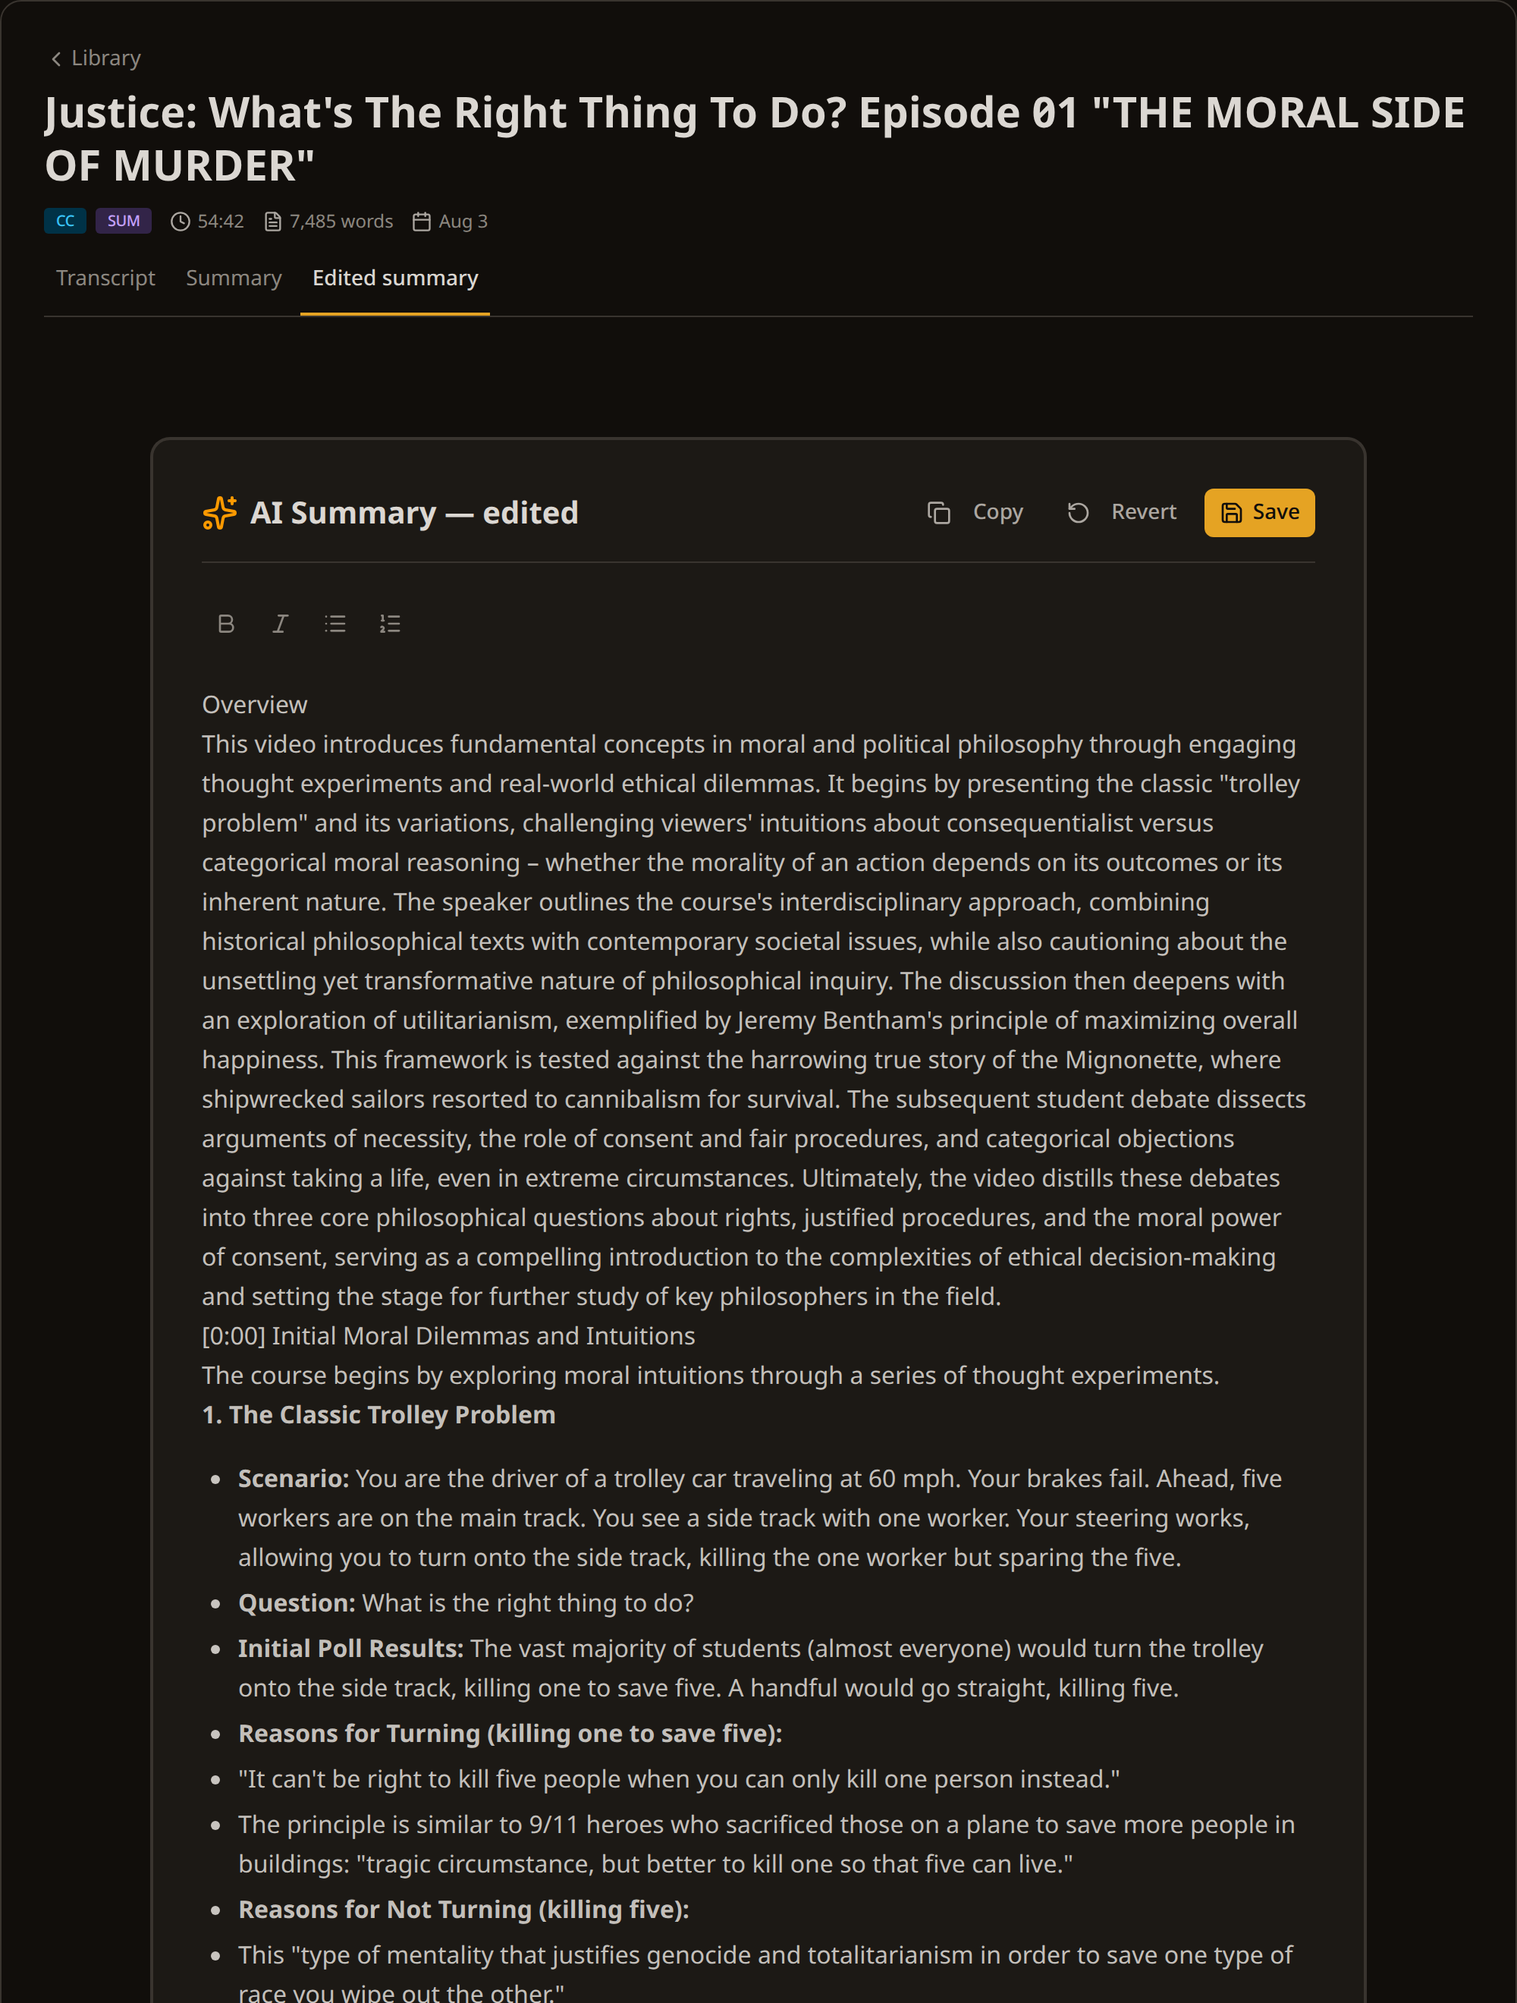
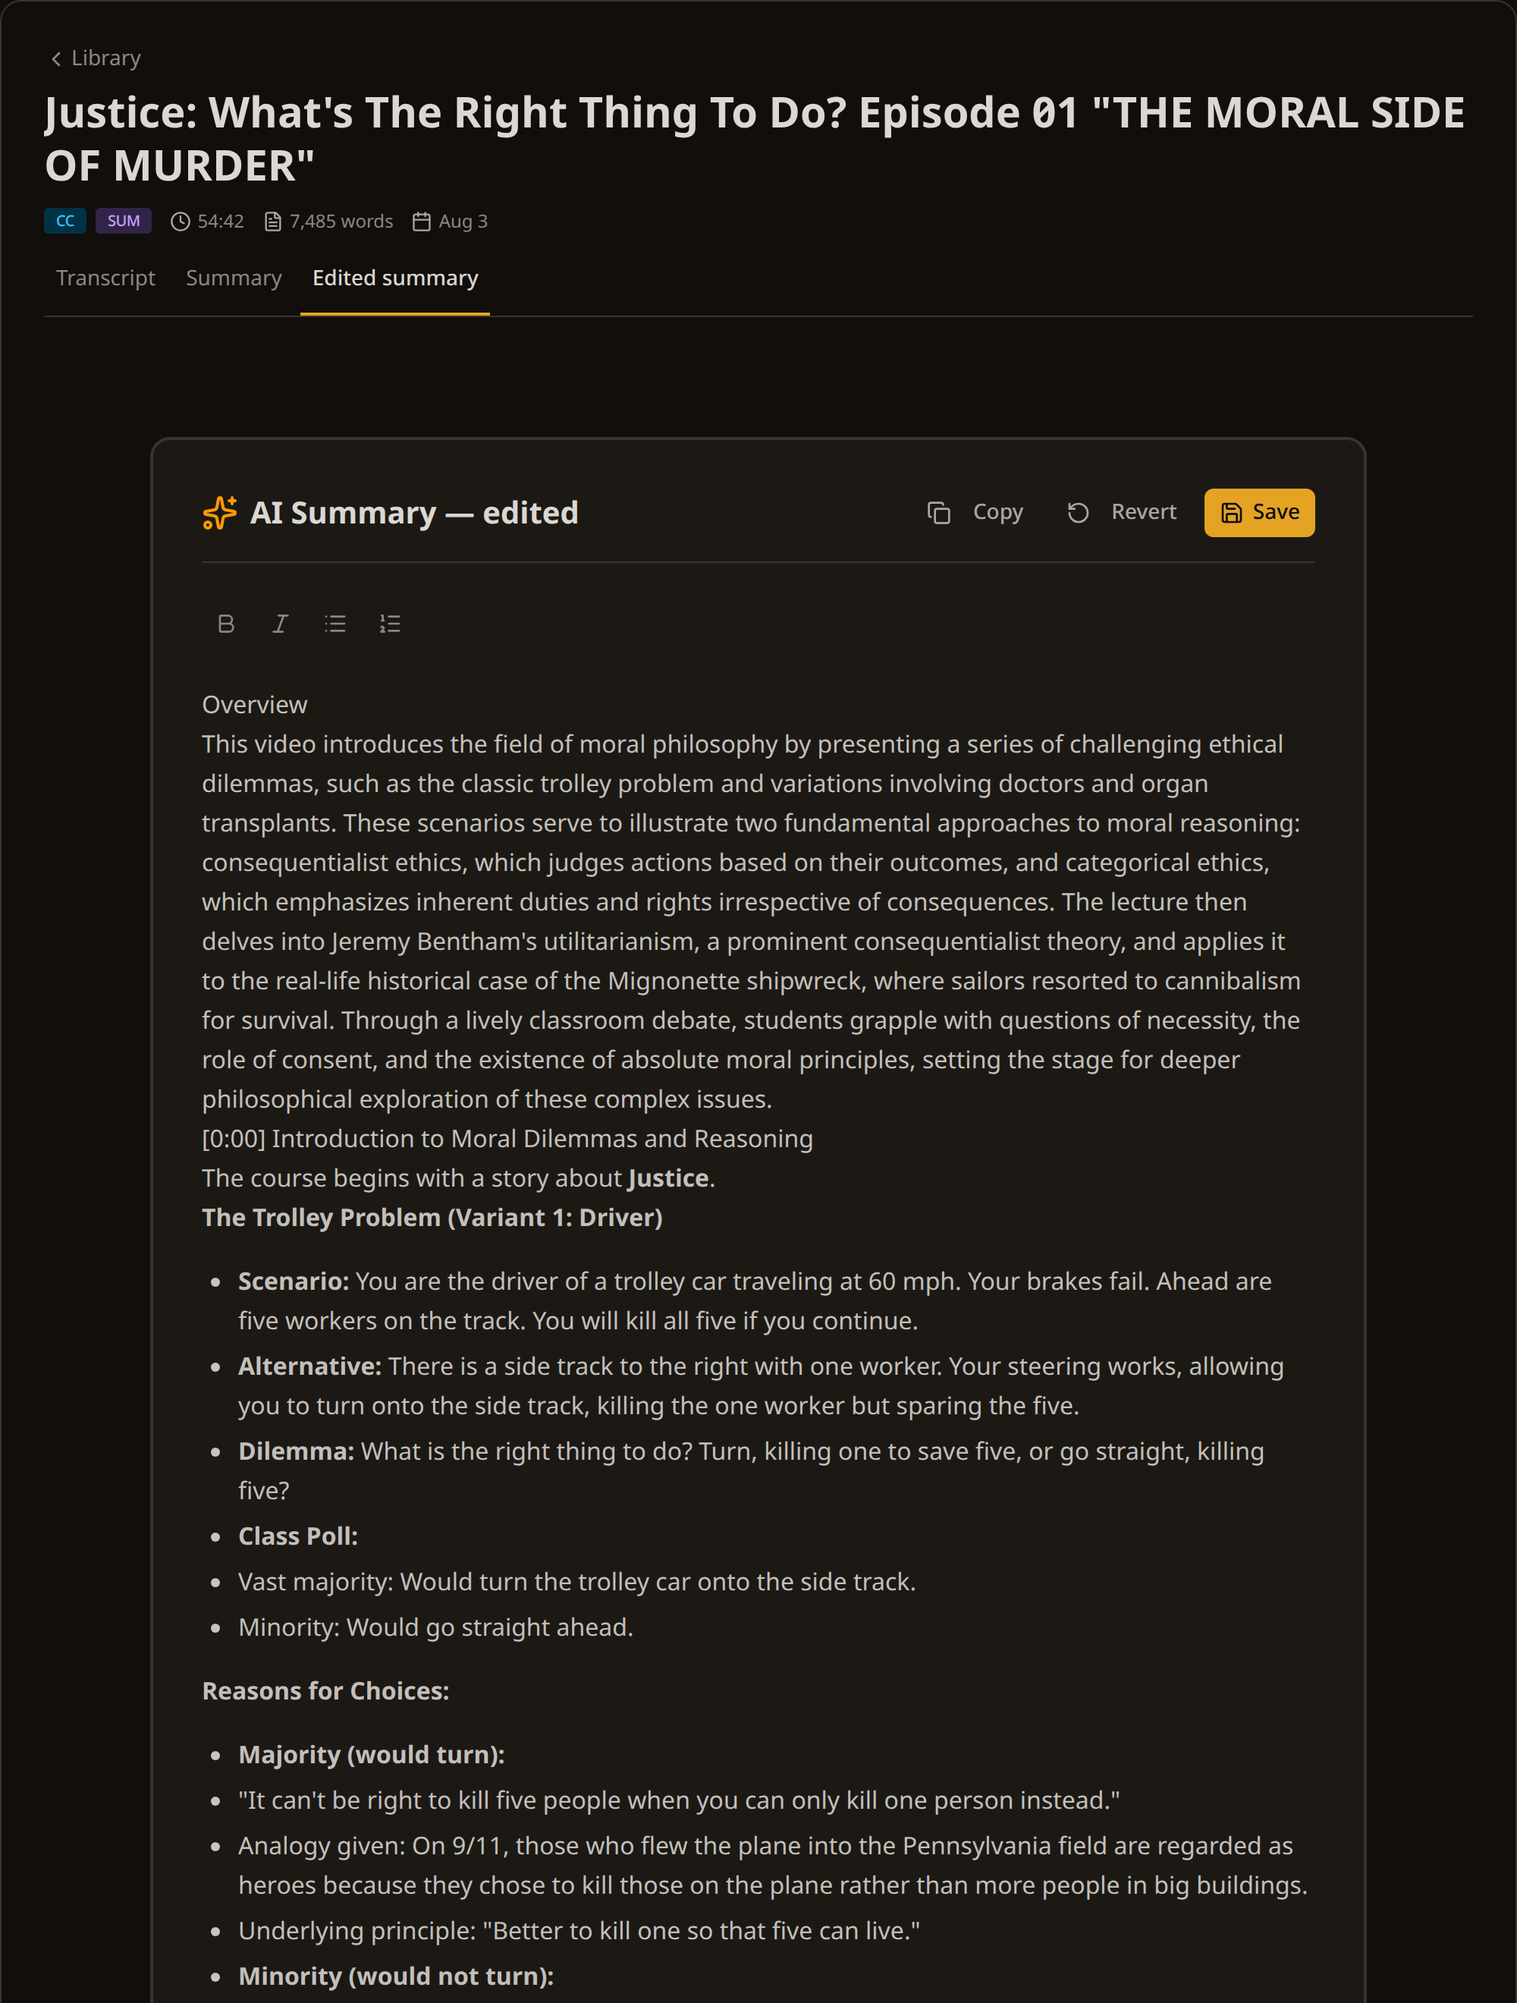
tune(summaries): overview length cap + re-shoot & freeze the Justice fixture
Close off the summary path in three steps.

1. Step-1 overview gets the same hard, source-length cap as the chapters: the overview must never be
   longer than the transcript itself (binding on short videos, a no-op on long ones). Re-measured with
   BOTH caps: Deep Work (72s, shortest) overview 96w->85w, sections 173w, total 258w = 121% — still
   >100%. The overview cap barely binds here (96w was already under the 213w transcript); the residual
   is structural — sections (~81%, each capped at its fragment) plus any overview sum over the
   transcript, so a per-part source cap cannot force the SUM under 100%. Justice 52% (ov 125 + sec 3507
   = 3632w vs 6987w) — cap non-binding, within its natural spread, unaffected.

2. Re-shot the three Justice summary captures (summary-overview / -chapter / -edit, light+dark, 6 PNGs)
   with the capture machine against live app.indxr.ai — they now show the frozen 5-chapter summary.

3. Froze the fixture: a LESSONS rule (a fixture that feeds a screenshot is not a test subject — never
   regenerate it for a proof; use a throwaway transcript) + a FROZEN marker in quickstart-capture.spec.ts
   with the definitive numbers.

ai-summary.md open item updated with the new numbers: the shortest video stays at 121% (>100%), so the
top-end spread persists -> that part STAYS OPEN. Summary tests green (breaker 7/7, credits 23/23);
3 captures green.

Changed region(s): [[0.124, 0.3417, 0.868, 1.0]]

diff --git a/tests/playwright/capture/quickstart-capture.spec.ts b/tests/playwright/capture/quickstart-capture.spec.ts
@@ -352,6 +352,10 @@ test('video-subtitles-srt', async ({ page }) => {
 // The figures for /articles (summaries). Read a REAL AI summary (ADR-090: overview + chapters, each
 // with a clickable timestamp) generated on the seeded Justice transcript (videoId → amber timestamps).
 // See screenshot-machine.md → "AI-summary seed". Do NOT delete that summary/transcript.
+// FROZEN FIXTURE (2026-08-25): this summary feeds the three captures below — it must NEVER be
+// regenerated for a proof or a measurement (doing so silently ages these screenshots; it has bitten
+// us three times). For length/quality experiments use a THROWAWAY transcript, not this one. Frozen
+// state: 5 chapters, 3632-word summary vs 6987-word transcript (52%), 54:42, 55 credits. See LESSONS.
 const SUMMARY_TRANSCRIPT_ID = '0798fa30-8056-4343-9e02-c50d93c00e4a' // Justice lecture (kBdfcR-8hEY)
 
 // Frame a TALL subject and shoot only its top `heightCss` px, in both themes. Unlike frameShot's

diff --git a/backend/summary_pipeline.py b/backend/summary_pipeline.py
@@ -286,7 +286,11 @@ def structure_system_prompt(min_sections: int, max_sections: int, total_seconds:
         "The transcript below is a spoken video; each line is prefixed with its start time in whole "
         f"seconds like [123]. The video runs from 0 to about {total_seconds} seconds.\n\n"
         "Produce:\n"
-        "1. `overview`: a few short paragraphs summarising the whole video.\n"
+        "1. `overview`: a few short paragraphs summarising the whole video. HARD LIMIT: the overview "
+        "must NEVER be longer than the transcript itself — never more words than the transcript "
+        "contains. For a short video this is the binding cap and the overview must shrink to fit it; "
+        "for a long video it changes nothing, because a genuine high-level overview already sits far "
+        "under it. Keep it a high-level summary, not a retelling — the section notes carry the detail.\n"
         "2. `sections`: an ordered list that splits the video where the topic changes. For each "
         "section give a `heading`, a one-sentence `description` of what that section actually covers, "
         "and a `start_time` and `end_time` in whole seconds (taken from the [..] timestamps). The "

diff --git a/docs/LOG.md b/docs/LOG.md
@@ -1070,3 +1070,5 @@ Co-Authored-By: Claude Sonnet 5 <noreply@anthropic.com>
 [2026-08-25 13:00] taak: DEEL A (onderzoek, geen code) + DEEL B (idempotentiesleutels, gebouwd). DEEL A: lengtespreiding samenvattingen = GEDRAG niet toeval — Justice 8 generaties out_tok 7310-15890 (2,2x); ratio samenvatting/transcript over 7 prod-summaries 39%-172% (korte video's > transcript, lange ~40%). Oorzaak = stap-2-prompt (volledige dekking, ~1/3 als niet-bindende richting, geen cap), NIET segmentatie/denkbudget. COR-spreiding €0,026-0,049, ruim binnen onderbreker (kost/min €0,0009 vs cap €0,02). Vastgelegd als OPEN in ai-summary.md met de tabel. DEEL B: idempotentiesleutels op alle credit-reserverende routes (ADR-019, eindelijk gebouwd). Migratie 20260825020000 (tabel idempotency_keys + cleanup-RPC + ARQ-cron 03:00). backend/idempotency.py (request_hash/content_hash/lookup/claim/release). Gewired in start_summary, transcribe/whisper (single+upload), playlist/extract (+retry): sleutel vooraf job_id → atomische PK-claim; gelijktijdig tweede verzoek → zelfde job, geen 2e reservering; sleutel = enige dedup wanneer aanwezig (legacy resource-dedup overgeslagen) zodat retry-na-vastgelopen niet blokkeert; request_hash per soort (summary: transcript+bron+bestaande generated_at; upload: content-hash; single: video_url; playlist: url+video_ids); mismatch→422; release bij post-claim-fout. Frontend: packages/shared/src/lib/idempotency.ts + gewired in SummaryTab/transcribe-page/VideoTab/AudioTab/PlaylistTab (choice 1: munt-bij-intentie, wis-bij-jobid/fout; retry=nieuwe actie). Migratie 20260825030000 verwijdert de summary-index uniq_active_ai_summary_job PAS na go-live (choice 5, nooit een gat: eerst key-path gepusht+Railway-deploy bevestigd, dan drop). BEWEZEN per jobsoort (2 backend-instances, echte gelijktijdigheid): 14/14 — zelfde sleutel→1 job/1 reservering/zelfde job_id; verschillende sleutels→2 jobs; retry-na-vastgelopen(nieuwe sleutel)→niet geblokkeerd; zelfde sleutel+andere inhoud→422; upload content-hash-guard. known-issues: race GEFIXT (commit 962856d). Verificatie: beide builds groen (2/2, tsc schoon), py_compile OK, test_summary_credits 23/23, test_summary_breaker 7/7, 14/14 proofs. | gewijzigd: supabase/migrations/{20260825020000_idempotency_keys,20260825030000_drop_summary_dedup_index}.sql (nieuw), backend/{idempotency.py (nieuw),main.py,worker.py}, packages/shared/src/lib/idempotency.ts (nieuw), apps/app/src/components/library/SummaryTab.tsx, apps/app/src/app/dashboard/transcribe/page.tsx, packages/shared/src/components/free-tool/{VideoTab,AudioTab,PlaylistTab}.tsx, docs/wiki/decisions/019-arq-job-queue.md, docs/wiki/operations/known-issues.md, docs/wiki/architecture/ai-summary.md, docs/LOG.md
 
 [2026-08-25 14:00] taak: één ingreep in de stap-2-samenvattingsprompt (SECTION_SYSTEM_PROMPT). HARDE bovengrens toegevoegd: de uitwerking van een hoofdstuk mag nooit langer zijn dan het transcriptfragment zelf (bindend bij korte fragmenten, niet-bindend bij lange). De ≈⅓-richting blijft binnen die grens (geformuleerd als richting, geen floor), en de vrijheid om lengte de informatiedichtheid te laten volgen blijft intact. Gemeten (één regeneratie per kant, run_summary direct + teruggeschreven): Deep Work (72s, kortste) 172%→129% — de stap-2-secties zakten naar 178w < transcript 213w (elk hoofdstuk onder zijn fragment) → de grens BINDT; de resterende >100% is de overkoepelende overview (step 1, 96w) die buiten deze ene stap-2-ingreep valt. Justice (lang) 47%→36%: 36% ≪ 100%-grens → niet-bindend, binnen Justice' natuurlijke spreiding (26–47%) → onaangetast. Open punt in ai-summary.md bijgewerkt met de uitkomst: hoofdstuk-uitwerking nu begrensd, maar totale korte-video-ratio blijft >100% door de niet-begrensde overview → bovenkant-spreiding VERKLEIND niet weggenomen → BLIJFT OPEN (overview = resterende hefboom). NB: Deep Work + Justice zijn hierdoor opnieuw gegenereerd in de DB (Justice-fixture nu 4 hoofdstukken; sanctioneerd door de taak). Verificatie: py_compile OK, test_summary_breaker 7/7, test_summary_credits 23/23. | gewijzigd: backend/summary_pipeline.py, docs/wiki/architecture/ai-summary.md, docs/LOG.md
+
+[2026-08-25 14:15] taak: samenvattingspad afsluiten (3 stappen). (1) Stap-1-overview kreeg dezelfde harde grens als de hoofdstukken, tied aan de transcript-lengte (overview nooit langer dan het transcript; bindt bij kort, no-op bij lang). Opnieuw gemeten met BEIDE grenzen: Deep Work (kortste, 72s) overview 96w->85w, secties 173w, totaal 258w = 121% — NOG STEEDS >100%; de overview-grens is bijna niet-bindend want 96w zat al onder 213w, en de rest is structureel (secties ~81% + overview sommeren boven transcript). Justice (fixture) 52% (ov 125 + sec 3507 = 3632w vs 6987w), niet-bindend/onaangetast. (2) Justice-schermafbeeldingen opnieuw geschoten met de opnamemachine tegen live app.indxr.ai — summary-overview/-chapter/-edit, licht+dark (6 PNGs), tonen nu de bevroren 5-hoofdstuk-samenvatting. (3) Fixture BEVROREN: LESSONS-regel toegevoegd (een fixture die een schermafbeelding voedt is geen proefkonijn — nooit opnieuw genereren voor een proef; gebruik een wegwerp-transcript) + FROZEN-marker in quickstart-capture.spec.ts met de definitieve cijfers. Open punt in ai-summary.md bijgewerkt: kortste video 121% (>100%) -> deel BLIJFT OPEN met de nieuwe cijfers. Verificatie: py_compile OK, test_summary_breaker 7/7, test_summary_credits 23/23, 3 captures groen (6 PNGs, beide thema's). | gewijzigd: backend/summary_pipeline.py, docs/wiki/architecture/ai-summary.md, docs/LESSONS.md, tests/playwright/capture/quickstart-capture.spec.ts, apps/marketing/public/docs/screenshots/summary-{overview,chapter,edit}-{light,dark}.png, docs/LOG.md

diff --git a/docs/LESSONS.md b/docs/LESSONS.md
@@ -202,3 +202,5 @@ Format: `[YYYY-MM-DD] <gebied>: <wat fout ging> → <regel om herhaling te voork
 [2026-08-24] llm-structured-output: geldige/parseerbare JSON van een taalmodel betekent NIET dat de inhoud compleet is. Gemini 2.5 Flash/Pro leveren INTERMITTEREND geldige, gesloten JSON waarvan een lang tekstveld midden in de zin stopt — mét finish_reason=stop en output-tokens ver onder de limiet (zelfs bij maxOutputTokens 65536; bevestigd op Google's AI Developers Forum). Bij ons slaagde json.loads en vuurde de JSON-terugval NIET, dus het glipte langs élk vangnet en leverde afgekapte betaalde samenvattingen (2 van 7, meest middenhoofdstukken). → Bij gestructureerde uitvoer met LANGE vrije-tekstvelden hoort een INHOUDELIJKE controle NÁÁST de parse (eindigt op een zin-afsluitend teken + niet onredelijk kort t.o.v. de invoer), en een gefaalde check moet als een MISLUKTE call behandeld worden (retry → fallback-model), niet als geslaagd. Overweeg het schema wég te laten waar het veld gewoon markdown/vrije tekst is — platte tekst maakt afkapping direct zichtbaar i.p.v. gecamoufleerd als geldige JSON. Leg de finish_reason + het tokenbudget + de reasoning/zichtbaar-splitsing vast, anders is de volgende diagnose giswerk. Denkbudget expliciet zetten (extra_body.google.thinking_config.thinking_budget; reasoning_effort/thinking_level geeft 400 op gemini-2.5-flash). Zie [[090-ai-summary-two-step-structured]] Addendum 3.
 [2026-08-24] verwijderde-route-audit: een feitenrapport (subagent) beweerde dat `check-playlist-availability` "nog in Next én Python bestaat, zonder aanroeper" — maar `git ls-files` + alle `@app`-decorators in `backend/main.py` toonden 0 treffers: de route was al volledig verwijderd (ADR-076 klopte). Het rapport had de bestaan-claim waarschijnlijk afgeleid uit de **stale endpoint-tabel in CLAUDE.md**, niet geverifieerd tegen de broncode. → Vóór je code "verwijdert" op basis van een rapport/tabel: bevestig eerst dat het bestand/de endpoint écht bestaat via de bron-van-waarheid (`git ls-files | grep`, route-decorators, grep in `*/src`), niet via een secundaire beschrijving. En: houd de CLAUDE.md endpoint-tabel gesynchroniseerd bij een verwijdering — een stale regel daar produceert later een spookmelding. Verzin GEEN "verwijdering was onvolledig"-noot in een ADR als de verwijdering aantoonbaar compleet was; rapporteer de tegenstrijdigheid. Zie [[076-no-playlist-precheck]].
 [2026-08-24] doc-vs-code modelnamen: CLAUDE.md noemde als summary-fallback alleen 'Claude Haiku 4.5' (ADR-068, single-pass) terwijl de code (summary_pipeline.py) sinds ADR-090 TWEE stappen heeft met per-stap-fallback: stap 1 (structuur) -> claude-sonnet-4-6, stap 2 (uitwerking) -> claude-haiku-4-5-20251001, beide met gemini-2.5-flash primair. Een prod-log met een sonnet-call leek daardoor 'fout' maar was de stap-1-fallback. -> Bij vragen over welk model/fallback draait: lees STRUCTURE_MODEL/STRUCTURE_FALLBACK/SECTION_MODEL/SECTION_FALLBACK in backend/summary_pipeline.py, niet CLAUDE.md of de ADR-tabel; die lopen achter op de pijplijn-addenda. Zie [[090-ai-summary-two-step-structured]].
+
+[2026-08-25] fixtures: de Justice-samenvatting (transcript 0798fa30) is drie keer opnieuw gegenereerd voor lengte-proeven, en elke keer verouderde dat stil de docs-schermafbeeldingen (summary-overview/-chapter/-edit) die deze fixture live lezen → een fixture die een schermafbeelding voedt is GEEN proefkonijn. Regel: genereer een transcript dat een capture voedt nooit opnieuw voor een proef of meting; gebruik daarvoor een wegwerp-transcript. Bevroren fixtures staan gemarkeerd in tests/playwright/capture/quickstart-capture.spec.ts (SUMMARY_TRANSCRIPT_ID).

diff --git a/docs/wiki/architecture/ai-summary.md b/docs/wiki/architecture/ai-summary.md
@@ -188,12 +188,26 @@ bindend, bij lange verandert er niets — grondige notities zitten daar al ruim 
 binnen die grens, net als de vrijheid om lengte de informatiedichtheid te laten volgen. Gemeten (één
 regeneratie per kant):
 
-| video | oud | nieuw | wat er gebeurde |
+| video | oud | na stap-2-cap | wat er gebeurde |
 |---|---|---|---|
-| Deep Work (72s, kortste) | 172% | **129%** | stap-2-secties nu 178w < transcript 213w (elk hoofdstuk onder zijn fragment); de grens BINDT |
-| Justice (3282s, lang) | 47% | 36% | 36% ≪ 100%-grens → de grens is niet-bindend; binnen Justice' natuurlijke spreiding (26–47%) → onaangetast |
+| Deep Work (72s, kortste) | 172% | 129% | stap-2-secties naar 178w < transcript 213w (elk hoofdstuk onder zijn fragment); de grens BINDT |
+| Justice (3282s, lang) | 47% | 36% | 36% ≪ 100%-grens → niet-bindend; binnen Justice' natuurlijke spreiding → onaangetast |
 
-**Deel BLIJFT OPEN.** De hoofdstuk-uitwerking is nu wél begrensd (Deep Work-secties 178w < 213w transcript),
-maar de TOTALE korte-video-ratio blijft > 100% (129%) omdat de **overkoepelende overview** (step 1, 96w)
-buiten deze ene stap-2-ingreep valt en niet begrensd is. De bovenkant-spreiding is dus VERKLEIND, niet
-weggenomen; de resterende hefboom is de overview. Markering: OPEN.
+**Ingreep 2 (2026-08-25): dezelfde harde grens op de stap-1-overview.** De structuur-prompt kreeg een HARDE
+grens tied aan de transcript-lengte: de overview mag nooit langer zijn dan het transcript zelf (bij korte
+video's bindend, bij lange niets — een echte high-level overview zit daar ver onder). Opnieuw gemeten met
+BEIDE grenzen actief:
+
+| video | vóór | ná beide grenzen | ratio |
+|---|---|---|---|
+| Deep Work (72s, kortste) | ov 96w / sec 178w = 129% | ov **85w** / sec 173w = 258w | **121%** — nog steeds > 100% |
+| Justice (3282s, lang, fixture) | — | ov 125w / sec 3507w = 3632w | **52%** — binnen natuurlijke spreiding, onaangetast |
+
+**Deel BLIJFT OPEN — de kortste video komt NIET onder 100% (121%).** De overview-grens "≤ transcript" is op
+Deep Work bijna niet-bindend: de overview (96w) zat al ruim onder het transcript (213w) en zakte slechts
+marginaal naar 85w. De resterende > 100% is STRUCTUREEL: de secties (173w, ~81% van het transcript, elk
+gecapt op hun fragment) plus welke overview dan ook sommeren boven het transcript. Een grens die elk DEEL
+aan zijn eigen bron (fragment / transcript) hangt, kan de SOM niet onder 100% dwingen — daarvoor zou een
+strakkere-dan-de-bron grens nodig zijn, die deze twee ingrepen bewust niet aanbrengen. Conclusie zonder
+verder bewijs: op zeer korte video's blijft de samenvatting iets langer dan het transcript. Markering: OPEN
+(nieuwe cijfers hierboven).
